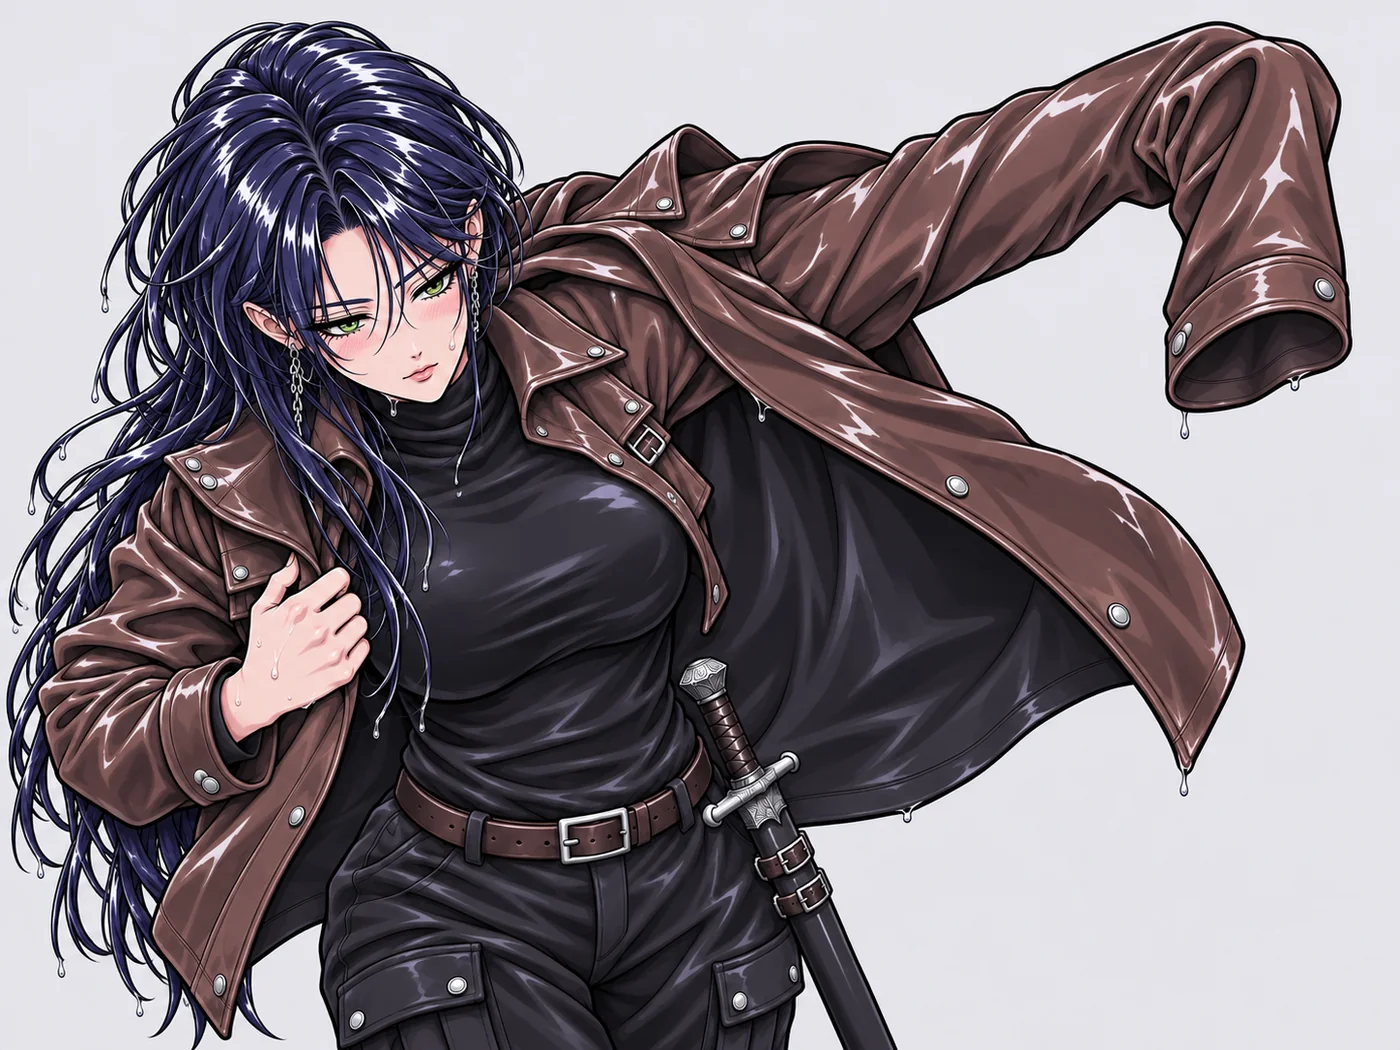
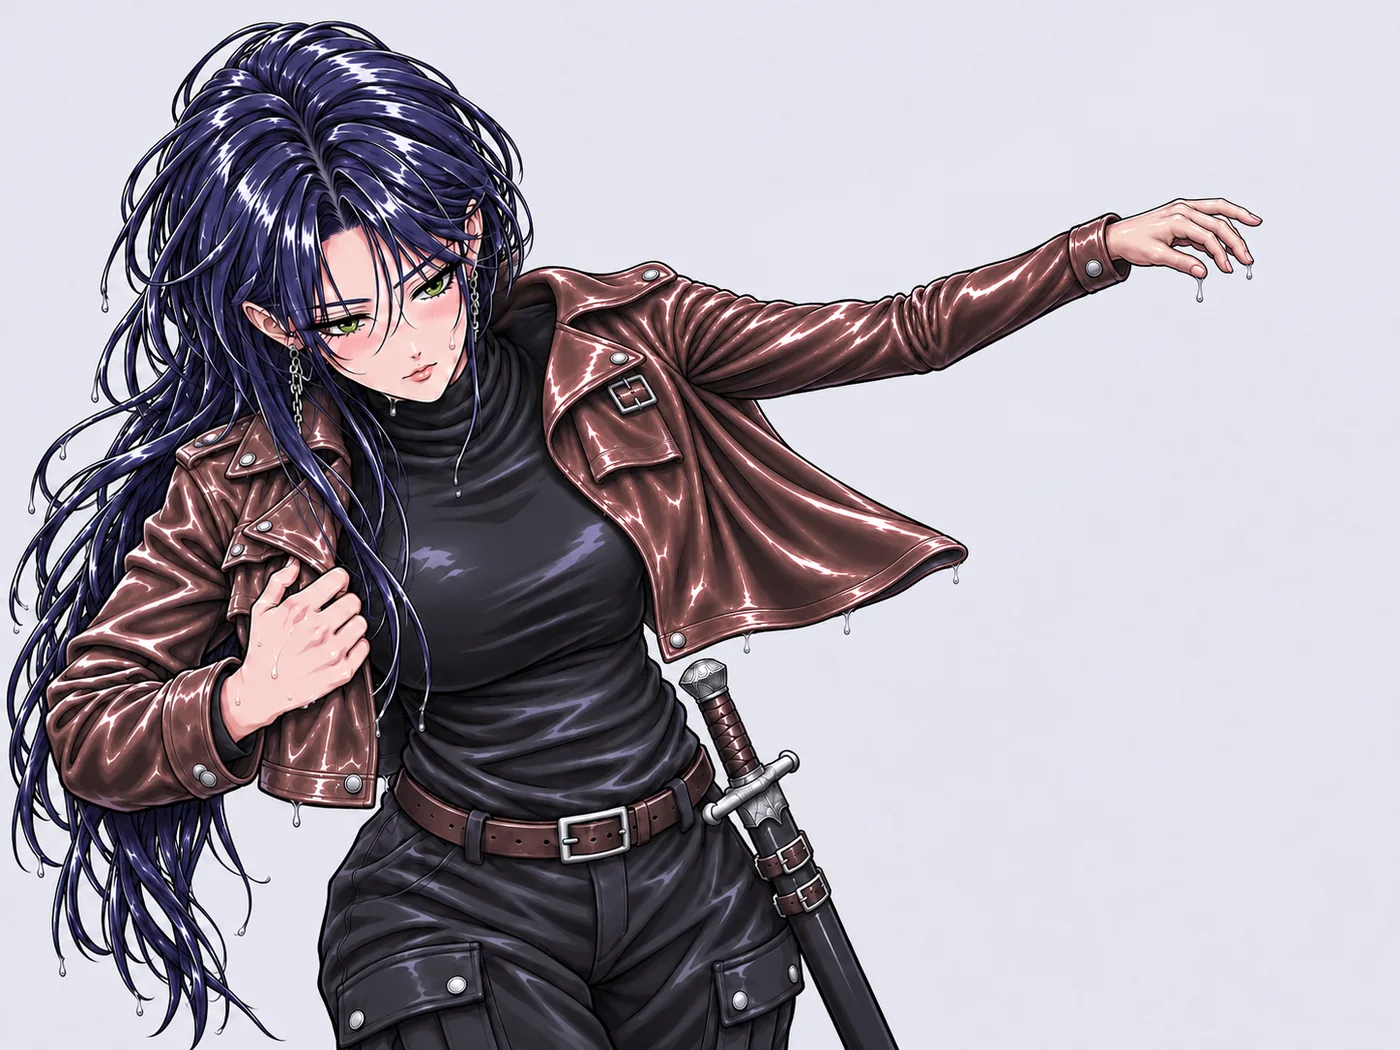
갤러리: 가희 현대판 일러스트 4장 추가(눈 내리는 도시·벚꽃비 도시·눈밤의 칼·빗속 일섬), 젖은 재킷 고친 판으로 교체

diff --git a/index.html b/index.html
@@ -478,7 +478,7 @@ dialog.notes{background:linear-gradient(180deg,#e6d8bd,#d9c8a8);border:1px solid
 .shrow .ic{display:grid;place-items:center;width:36px;height:36px;border-radius:6px;background:#efe3cb;border:1px solid #b89c6c;font-size:20px;font-family:'Apple Color Emoji','Segoe UI Emoji','Noto Color Emoji',sans-serif}
 .shm b{display:block;font-size:15px;color:#2e2218}.shd{font-size:12px;color:#6b5640}
 .pips{display:flex;gap:3px;margin-top:4px}.pips i{width:12px;height:5px;border-radius:2px;background:#d8c7a6}.pips i.on{background:#c9701e}
-.shbuy{min-width:84px}.achoff{opacity:.62}.achoff .ic{filter:grayscale(1)}.achc{font-weight:700;white-space:nowrap;font-size:.92em}.achget{flex:none;padding:7px 14px;border:0;border-radius:10px;background:linear-gradient(#ffcf4a,#f0a41c);color:#4a2a00;font:inherit;font-weight:800;cursor:pointer;box-shadow:0 2px 0 #b9740c;white-space:nowrap}.achget:active{transform:translateY(1px);box-shadow:none}.shrow.achrdy{background:rgba(255,214,90,.28);border-color:#e6a627;box-shadow:0 0 0 2px rgba(240,164,28,.35) inset}.achall{display:block;width:100%;margin:8px 0 2px;padding:10px;font-size:1.05em}.achdot{display:inline-block;min-width:18px;padding:0 5px;margin-left:4px;border-radius:9px;background:#e8402a;color:#fff;font-size:.8em;line-height:18px;text-align:center}.galgrid{display:grid;grid-template-columns:repeat(auto-fill,minmax(112px,1fr));gap:8px}.galit{display:flex;flex-direction:column;align-items:center;gap:3px;padding:6px;border:1px solid #c4ad84;border-radius:8px;background:rgba(250,244,232,.55);font:inherit;cursor:pointer;color:#3b2a16}.galit b{font-size:.82em;line-height:1.2;text-align:center}.galtag{font-style:normal;font-size:.7em;opacity:.7;line-height:1.1}.galit em{font-style:normal;font-size:.78em;font-weight:700;color:#9a5a12}.galth{display:block;width:104px;height:130px;border-radius:5px;background:#efe6d6 url('assets/gallery/thumbs2.webp?v=19') no-repeat;background-size:600% 1200%}/* 썸네일은 한 장짜리 모음(6×12, 72칸) — 1.14.5.5 늘림, 넣기는 tools/gallery_thumb.py */.galalpha{background:linear-gradient(160deg,#fdf6ea,#e7d9f3)}.galit.lock .galth{filter:blur(6px) brightness(.55) saturate(.6)}.galit.lock{opacity:.9}.galview{position:fixed;inset:0;z-index:99999;background:rgba(8,8,14,.93);display:flex;align-items:center;justify-content:center}.galview img{max-width:96vw;max-height:84vh;object-fit:contain;border-radius:6px;box-shadow:0 10px 40px rgba(0,0,0,.6)}.galstack{max-width:96vw;max-height:min(84vh,calc(100vh - 120px));overflow-y:auto}.galview .galstack img{display:block;max-width:100%;max-height:none;margin:0 auto}.galstack img+img{margin-top:8px}.galview img.galalpha{background:linear-gradient(160deg,#fdf6ea,#e7d9f3)}.galcap{position:absolute;left:0;right:0;bottom:14px;text-align:center;color:#fff;text-shadow:0 1px 4px #000}.galcap b{display:block;font-size:1.05em}.galcap span{font-size:.82em;opacity:.85}.galx,.galp,.galn{position:absolute;border:0;background:rgba(255,255,255,.14);color:#fff;font-size:28px;width:48px;height:48px;border-radius:50%;cursor:pointer}.galx{top:14px;right:14px;font-size:22px}.galp{left:12px;top:50%;transform:translateY(-50%)}.galn{right:12px;top:50%;transform:translateY(-50%)}.achtabs{display:flex;flex-wrap:wrap;gap:6px;margin:4px 0 10px}.achtab{flex:1 1 auto;padding:7px 10px;border:1px solid #c4ad84;border-radius:999px;background:rgba(250,244,232,.55);font:inherit;font-weight:700;cursor:pointer;color:#5a4224}.achtab small{opacity:.7;font-weight:600}.achtab.on{background:#d9822b;border-color:#b0611a;color:#fff}.shbuy:disabled{opacity:.55}
+.shbuy{min-width:84px}.achoff{opacity:.62}.achoff .ic{filter:grayscale(1)}.achc{font-weight:700;white-space:nowrap;font-size:.92em}.achget{flex:none;padding:7px 14px;border:0;border-radius:10px;background:linear-gradient(#ffcf4a,#f0a41c);color:#4a2a00;font:inherit;font-weight:800;cursor:pointer;box-shadow:0 2px 0 #b9740c;white-space:nowrap}.achget:active{transform:translateY(1px);box-shadow:none}.shrow.achrdy{background:rgba(255,214,90,.28);border-color:#e6a627;box-shadow:0 0 0 2px rgba(240,164,28,.35) inset}.achall{display:block;width:100%;margin:8px 0 2px;padding:10px;font-size:1.05em}.achdot{display:inline-block;min-width:18px;padding:0 5px;margin-left:4px;border-radius:9px;background:#e8402a;color:#fff;font-size:.8em;line-height:18px;text-align:center}.galgrid{display:grid;grid-template-columns:repeat(auto-fill,minmax(112px,1fr));gap:8px}.galit{display:flex;flex-direction:column;align-items:center;gap:3px;padding:6px;border:1px solid #c4ad84;border-radius:8px;background:rgba(250,244,232,.55);font:inherit;cursor:pointer;color:#3b2a16}.galit b{font-size:.82em;line-height:1.2;text-align:center}.galtag{font-style:normal;font-size:.7em;opacity:.7;line-height:1.1}.galit em{font-style:normal;font-size:.78em;font-weight:700;color:#9a5a12}.galth{display:block;width:104px;height:130px;border-radius:5px;background:#efe6d6 url('assets/gallery/thumbs2.webp?v=20') no-repeat;background-size:600% 1200%}/* 썸네일은 한 장짜리 모음(6×12, 72칸) — 1.14.5.5 늘림, 넣기는 tools/gallery_thumb.py */.galalpha{background:linear-gradient(160deg,#fdf6ea,#e7d9f3)}.galit.lock .galth{filter:blur(6px) brightness(.55) saturate(.6)}.galit.lock{opacity:.9}.galview{position:fixed;inset:0;z-index:99999;background:rgba(8,8,14,.93);display:flex;align-items:center;justify-content:center}.galview img{max-width:96vw;max-height:84vh;object-fit:contain;border-radius:6px;box-shadow:0 10px 40px rgba(0,0,0,.6)}.galstack{max-width:96vw;max-height:min(84vh,calc(100vh - 120px));overflow-y:auto}.galview .galstack img{display:block;max-width:100%;max-height:none;margin:0 auto}.galstack img+img{margin-top:8px}.galview img.galalpha{background:linear-gradient(160deg,#fdf6ea,#e7d9f3)}.galcap{position:absolute;left:0;right:0;bottom:14px;text-align:center;color:#fff;text-shadow:0 1px 4px #000}.galcap b{display:block;font-size:1.05em}.galcap span{font-size:.82em;opacity:.85}.galx,.galp,.galn{position:absolute;border:0;background:rgba(255,255,255,.14);color:#fff;font-size:28px;width:48px;height:48px;border-radius:50%;cursor:pointer}.galx{top:14px;right:14px;font-size:22px}.galp{left:12px;top:50%;transform:translateY(-50%)}.galn{right:12px;top:50%;transform:translateY(-50%)}.achtabs{display:flex;flex-wrap:wrap;gap:6px;margin:4px 0 10px}.achtab{flex:1 1 auto;padding:7px 10px;border:1px solid #c4ad84;border-radius:999px;background:rgba(250,244,232,.55);font:inherit;font-weight:700;cursor:pointer;color:#5a4224}.achtab small{opacity:.7;font-weight:600}.achtab.on{background:#d9822b;border-color:#b0611a;color:#fff}.shbuy:disabled{opacity:.55}
 .shmsg{min-height:18px;color:#2f8a62;font-weight:700;margin:6px 0 0}
 
 .pwabtn{flex:none;padding:6px 12px;border:1px solid rgba(255,215,120,.6);border-radius:999px;background:linear-gradient(#5a2a7a,#3a1850);color:#ffe7a8;font:inherit;font-weight:800;font-size:.86em;cursor:pointer;white-space:nowrap;box-shadow:0 2px 0 rgba(0,0,0,.35)}.pwabtn:hover{filter:brightness(1.15)}
@@ -5244,7 +5244,7 @@ function showAch(){let d=$('achDlg');if(!d){d=document.createElement('dialog');d
   d.querySelector('#achOk').onclick=()=>d.close();const done=c=>{if(c)toast(`🪙 업적 보상 +${c.toLocaleString()} 코인`,1600);showAch()};d.querySelectorAll('.achget').forEach(b=>b.onclick=async()=>{b.disabled=true;done(await achClaim([b.dataset.id]))});const all=d.querySelector('#achAll');if(all)all.onclick=async()=>{all.disabled=true;done(await achClaim(RD.map(a=>a.id)))};d.querySelectorAll('.achtab').forEach(b=>b.onclick=()=>{ACHT=b.dataset.g;showAch()});if(!d.open)d.showModal?d.showModal():d.setAttribute('open','')}
 
 /* 1.13.11.0 일러스트 갤러리: 캐릭터 일러스트 · 필살기 컷인 · LD 전신을 코인으로 해금해서 크게 보기. 해금 기록은 SH.data.gal (계정, 로그인 필요) */
-/* 1.14.5.x 필살기 여러 컷은 갤러리 한 항목(fs)으로 합침 */const GAL=[{id:'il_aoko',n:'소나카',g:'일러스트',c:60,a:0,t:0,f:'assets/gallery/il_aoko.webp?v=2'},{id:'il_marjanam',n:'마르자나 · 현대판',g:'일러스트',c:60,a:0,t:1,f:'assets/gallery/il_marjanam.webp?v=3'},{id:'il_kate',n:'케이트호크',g:'일러스트',c:60,a:0,t:2},{id:'il_damiroK',n:'다미로 · 경화수월',g:'일러스트',c:60,a:0,t:3},{id:'il_damiroB',n:'다미로 · 비키니',g:'일러스트',c:60,a:0,t:4},{id:'il_violetB',n:'설순이 · 칵테일',g:'일러스트',c:60,a:0,t:5},{id:'il_violetB2',n:'설순이 · 바텐더 의자',g:'일러스트',c:60,a:0,t:6},{id:'il_violetB3',n:'설순이 · 바람 부는 해변',g:'일러스트',c:60,a:0,t:22},{id:'il_violetB4',n:'설순이 · 노을 한 모금',g:'일러스트',c:60,a:0,t:27},{id:'il_angel',n:'이드 · 천사악마 전신',g:'일러스트',c:60,a:0,t:35},{id:'il_nid',n:'설표 · 고양이 튜브',g:'일러스트',c:60,a:0,t:7},{id:'il_nid2',n:'설표 · 튜브 물장난',g:'일러스트',c:60,a:0,t:8},{id:'il_nid3',n:'설표 · 물보라',g:'일러스트',c:60,a:0,t:9},{id:'il_nid4',n:'설표 · 물총',g:'일러스트',c:60,a:0,t:10},{id:'ct_nid',n:'설표 · 눈송이 발차기',g:'필살기 컷인',c:30,a:0,t:11,f:'assets/sprites/cut_nid2.webp'},{id:'ct_princess',n:'소나카 · 꽃의 정원',g:'필살기 컷인',c:30,a:0,t:12,f:'assets/sprites/cut_princess.webp'},{id:'ct_marjanam',n:'마르자나 · 천지파열무',g:'필살기 컷인',c:30,a:0,t:13,f:'assets/sprites/cut_marjanam.webp?v=4'},{id:'ct_violetB',n:'설순이 · 칵테일 2컷',g:'필살기 컷인',c:40,a:0,t:14,fs:['assets/sprites/cut_violetB1.webp','assets/sprites/cut_violetB2.webp']},{id:'ct_elf',n:'레이나 · 질풍 연참',g:'필살기 컷인',c:30,a:1,t:29,f:'assets/sprites/cut_elf.webp'},{id:'ct_knight',n:'세레나 · 루나 슬래시',g:'필살기 컷인',c:30,a:1,t:28,f:'assets/sprites/cut_knight.webp'},{id:'ct_lion',n:'레오나 · 사자 포효',g:'필살기 컷인',c:30,a:1,t:31,f:'assets/sprites/cut_lion.webp'},{id:'ct_damiro',n:'다미로 · 하트 스핀',g:'필살기 컷인',c:30,a:1,t:32,f:'assets/sprites/cut_damiro.webp'},{id:'ct_nidB',n:'설표 · 비키니 3컷',g:'필살기 컷인',c:40,a:1,t:37},{id:'ct_elf2',n:'레이나 · 질풍 연참 (움직이는 컷인)',g:'필살기 컷인',c:40,a:0,t:36},{id:'ct_kate',n:'케이트호크 · 크림슨 크로스',g:'필살기 컷인',c:30,a:1,t:33,f:'assets/sprites/cut_kate.webp?v=4'},{id:'ct_marjanao',n:'마르자나 · 혈랑마혼',g:'필살기 컷인',c:30,a:1,t:34,f:'assets/sprites/cut_marjanao.webp?v=3'},{id:'ct_yuenem',n:'유에넴 · 매화신권 2컷',g:'필살기 컷인',c:40,a:0,t:40,fs:['assets/sprites/cut_yuenem1.webp?v=2','assets/sprites/cut_yuenem2.webp?v=2']},{id:'ct_ribbon',n:'딘코 · 비트 버스트 2컷',g:'필살기 컷인',c:40,a:0,t:41,fs:['assets/sprites/cut_ribbon1.webp?v=2','assets/sprites/cut_ribbon2.webp?v=2']},{id:'ct_gaheeM',n:'가희 · 현대판 — 우중일섬 2컷',g:'필살기 컷인',c:40,a:0,t:44,fs:['assets/gallery/ct_gaheeM.webp','assets/gallery/ct_gaheeM_angry.webp']},{id:'ct_gahee',n:'가희 · 패황멸천 2컷',g:'필살기 컷인',c:40,a:0,t:42,fs:['assets/sprites/cut_gahee1.webp','assets/sprites/cut_gahee2.webp']},{id:'ct_sauris',n:'사우리스 · 공룡 돌진 2컷',g:'필살기 컷인',c:40,a:0,t:43,fs:['assets/sprites/cut_sauris1.webp','assets/sprites/cut_sauris2.webp']},{id:'ld_gahee',n:'가희 · 사파',g:'LD 전신',c:40,a:0,t:16},{id:'ld_knight',n:'세레나',g:'LD 전신',c:40,a:0,t:18},{id:'ld_elf',n:'레이나',g:'LD 전신',c:40,a:0,t:19},{id:'ld_yuenem',n:'유에넴',g:'LD 전신',c:40,a:0,t:20},{id:'ld_idtrip',n:'이드 · 여행원피스',g:'LD 전신',c:40,a:1,t:21},{id:'ld_nobu',n:'노브냥이 · 서큐버스',g:'LD 전신',c:40,a:1,t:23},{id:'ld_nobu2',n:'노브냥이 · 서큐버스 2',g:'LD 전신',c:40,a:0,t:24},{id:'ld_nobuR',n:'노브냥이 · 루비 드레스',g:'LD 전신',c:40,a:1,t:25},{id:'ld_santa',n:'마르자나 · 산타',g:'LD 전신',c:40,a:0,t:26},{id:'il_gaheeM2',n:'가희 · 현대판 빗속 대기',g:'일러스트',c:60,a:0,t:46,f:'assets/gallery/il_gaheeM2.webp'},{id:'il_gaheeM3',n:'가희 · 현대판 젖은 재킷',g:'일러스트',c:60,a:0,t:47,f:'assets/gallery/il_gaheeM3.webp'},{id:'il_gaheeM4',n:'가희 · 현대판 재킷 휘날리기',g:'일러스트',c:60,a:0,t:48,f:'assets/gallery/il_gaheeM4.webp'},{id:'il_gaheeM5',n:'가희 · 현대판 발도',g:'일러스트',c:60,a:0,t:49,f:'assets/gallery/il_gaheeM5.webp'},{id:'il_gahee2',n:'가희 · 백의 도객',g:'일러스트',c:60,a:0,t:17,ps:'assets/gallery/pack_1116.webp',pk:[0,0,1024,1536]},{id:'il_gahee3',n:'가희 · 사파 전투',g:'일러스트',c:60,a:0,t:39,ps:'assets/gallery/pack_1116.webp',pk:[0,2477,1671,941]},{id:'il_gahee4',n:'가희 · 유에넴과 대결',g:'일러스트',c:60,a:0,t:38,ps:'assets/gallery/pack_1116.webp',pk:[0,1536,1672,941]},{id:'il_yuenem',n:'유에넴 · 부채무공',g:'일러스트',c:60,a:0,t:30,ps:'assets/gallery/pack_1116.webp',pk:[1024,0,1024,1536]}]/* 1.13.16.13 새 일러스트 4장은 아티팩트 파일 수 한도(511) 때문에 한 장(pack_1116)에 모아 두고 볼 때 잘라서 보여 줌(pk=[x,y,w,h]) */,PKC={},pkSrc=(it,cb)=>{if(PKC[it.id])return cb(PKC[it.id]);const im=new Image();im.onload=()=>{const[x,y,w,h]=it.pk,c=document.createElement('canvas');c.width=w;c.height=h;c.getContext('2d').drawImage(im,x,y,w,h,0,0,w,h);const done=u=>{PKC[it.id]=u;cb(u)};if(c.toBlob)c.toBlob(b=>done(b?URL.createObjectURL(b):c.toDataURL('image/jpeg',.92)),'image/webp',.92);else done(c.toDataURL('image/jpeg',.92))};im.src=it.ps},GALG=['일러스트','필살기 컷인','LD 전신'],GALI={'일러스트':'🎨','필살기 컷인':'🎬','LD 전신':'🧍'};
+/* 1.14.5.x 필살기 여러 컷은 갤러리 한 항목(fs)으로 합침 */const GAL=[{id:'il_aoko',n:'소나카',g:'일러스트',c:60,a:0,t:0,f:'assets/gallery/il_aoko.webp?v=2'},{id:'il_marjanam',n:'마르자나 · 현대판',g:'일러스트',c:60,a:0,t:1,f:'assets/gallery/il_marjanam.webp?v=3'},{id:'il_kate',n:'케이트호크',g:'일러스트',c:60,a:0,t:2},{id:'il_damiroK',n:'다미로 · 경화수월',g:'일러스트',c:60,a:0,t:3},{id:'il_damiroB',n:'다미로 · 비키니',g:'일러스트',c:60,a:0,t:4},{id:'il_violetB',n:'설순이 · 칵테일',g:'일러스트',c:60,a:0,t:5},{id:'il_violetB2',n:'설순이 · 바텐더 의자',g:'일러스트',c:60,a:0,t:6},{id:'il_violetB3',n:'설순이 · 바람 부는 해변',g:'일러스트',c:60,a:0,t:22},{id:'il_violetB4',n:'설순이 · 노을 한 모금',g:'일러스트',c:60,a:0,t:27},{id:'il_angel',n:'이드 · 천사악마 전신',g:'일러스트',c:60,a:0,t:35},{id:'il_nid',n:'설표 · 고양이 튜브',g:'일러스트',c:60,a:0,t:7},{id:'il_nid2',n:'설표 · 튜브 물장난',g:'일러스트',c:60,a:0,t:8},{id:'il_nid3',n:'설표 · 물보라',g:'일러스트',c:60,a:0,t:9},{id:'il_nid4',n:'설표 · 물총',g:'일러스트',c:60,a:0,t:10},{id:'ct_nid',n:'설표 · 눈송이 발차기',g:'필살기 컷인',c:30,a:0,t:11,f:'assets/sprites/cut_nid2.webp'},{id:'ct_princess',n:'소나카 · 꽃의 정원',g:'필살기 컷인',c:30,a:0,t:12,f:'assets/sprites/cut_princess.webp'},{id:'ct_marjanam',n:'마르자나 · 천지파열무',g:'필살기 컷인',c:30,a:0,t:13,f:'assets/sprites/cut_marjanam.webp?v=4'},{id:'ct_violetB',n:'설순이 · 칵테일 2컷',g:'필살기 컷인',c:40,a:0,t:14,fs:['assets/sprites/cut_violetB1.webp','assets/sprites/cut_violetB2.webp']},{id:'ct_elf',n:'레이나 · 질풍 연참',g:'필살기 컷인',c:30,a:1,t:29,f:'assets/sprites/cut_elf.webp'},{id:'ct_knight',n:'세레나 · 루나 슬래시',g:'필살기 컷인',c:30,a:1,t:28,f:'assets/sprites/cut_knight.webp'},{id:'ct_lion',n:'레오나 · 사자 포효',g:'필살기 컷인',c:30,a:1,t:31,f:'assets/sprites/cut_lion.webp'},{id:'ct_damiro',n:'다미로 · 하트 스핀',g:'필살기 컷인',c:30,a:1,t:32,f:'assets/sprites/cut_damiro.webp'},{id:'ct_nidB',n:'설표 · 비키니 3컷',g:'필살기 컷인',c:40,a:1,t:37},{id:'ct_elf2',n:'레이나 · 질풍 연참 (움직이는 컷인)',g:'필살기 컷인',c:40,a:0,t:36},{id:'ct_kate',n:'케이트호크 · 크림슨 크로스',g:'필살기 컷인',c:30,a:1,t:33,f:'assets/sprites/cut_kate.webp?v=4'},{id:'ct_marjanao',n:'마르자나 · 혈랑마혼',g:'필살기 컷인',c:30,a:1,t:34,f:'assets/sprites/cut_marjanao.webp?v=3'},{id:'ct_yuenem',n:'유에넴 · 매화신권 2컷',g:'필살기 컷인',c:40,a:0,t:40,fs:['assets/sprites/cut_yuenem1.webp?v=2','assets/sprites/cut_yuenem2.webp?v=2']},{id:'ct_ribbon',n:'딘코 · 비트 버스트 2컷',g:'필살기 컷인',c:40,a:0,t:41,fs:['assets/sprites/cut_ribbon1.webp?v=2','assets/sprites/cut_ribbon2.webp?v=2']},{id:'ct_gaheeM',n:'가희 · 현대판 — 우중일섬 2컷',g:'필살기 컷인',c:40,a:0,t:44,fs:['assets/gallery/ct_gaheeM.webp','assets/gallery/ct_gaheeM_angry.webp']},{id:'ct_gahee',n:'가희 · 패황멸천 2컷',g:'필살기 컷인',c:40,a:0,t:42,fs:['assets/sprites/cut_gahee1.webp','assets/sprites/cut_gahee2.webp']},{id:'ct_sauris',n:'사우리스 · 공룡 돌진 2컷',g:'필살기 컷인',c:40,a:0,t:43,fs:['assets/sprites/cut_sauris1.webp','assets/sprites/cut_sauris2.webp']},{id:'ld_gahee',n:'가희 · 사파',g:'LD 전신',c:40,a:0,t:16},{id:'ld_knight',n:'세레나',g:'LD 전신',c:40,a:0,t:18},{id:'ld_elf',n:'레이나',g:'LD 전신',c:40,a:0,t:19},{id:'ld_yuenem',n:'유에넴',g:'LD 전신',c:40,a:0,t:20},{id:'ld_idtrip',n:'이드 · 여행원피스',g:'LD 전신',c:40,a:1,t:21},{id:'ld_nobu',n:'노브냥이 · 서큐버스',g:'LD 전신',c:40,a:1,t:23},{id:'ld_nobu2',n:'노브냥이 · 서큐버스 2',g:'LD 전신',c:40,a:0,t:24},{id:'ld_nobuR',n:'노브냥이 · 루비 드레스',g:'LD 전신',c:40,a:1,t:25},{id:'ld_santa',n:'마르자나 · 산타',g:'LD 전신',c:40,a:0,t:26},{id:'il_gaheeM6',n:'가희 · 현대판 눈 내리는 도시',g:'일러스트',c:60,a:0,t:50,f:'assets/gallery/il_gaheeM6.webp'},{id:'il_gaheeM7',n:'가희 · 현대판 벚꽃비 도시',g:'일러스트',c:60,a:0,t:51,f:'assets/gallery/il_gaheeM7.webp'},{id:'il_gaheeM8',n:'가희 · 현대판 눈밤의 칼',g:'일러스트',c:60,a:0,t:52,f:'assets/gallery/il_gaheeM8.webp'},{id:'il_gaheeM9',n:'가희 · 현대판 빗속 일섬',g:'일러스트',c:60,a:0,t:53,f:'assets/gallery/il_gaheeM9.webp'},{id:'il_gaheeM2',n:'가희 · 현대판 빗속 대기',g:'일러스트',c:60,a:0,t:46,f:'assets/gallery/il_gaheeM2.webp'},{id:'il_gaheeM3',n:'가희 · 현대판 젖은 재킷',g:'일러스트',c:60,a:0,t:47,f:'assets/gallery/il_gaheeM3.webp?v=2'},{id:'il_gaheeM4',n:'가희 · 현대판 재킷 휘날리기',g:'일러스트',c:60,a:0,t:48,f:'assets/gallery/il_gaheeM4.webp'},{id:'il_gaheeM5',n:'가희 · 현대판 발도',g:'일러스트',c:60,a:0,t:49,f:'assets/gallery/il_gaheeM5.webp'},{id:'il_gahee2',n:'가희 · 백의 도객',g:'일러스트',c:60,a:0,t:17,ps:'assets/gallery/pack_1116.webp',pk:[0,0,1024,1536]},{id:'il_gahee3',n:'가희 · 사파 전투',g:'일러스트',c:60,a:0,t:39,ps:'assets/gallery/pack_1116.webp',pk:[0,2477,1671,941]},{id:'il_gahee4',n:'가희 · 유에넴과 대결',g:'일러스트',c:60,a:0,t:38,ps:'assets/gallery/pack_1116.webp',pk:[0,1536,1672,941]},{id:'il_yuenem',n:'유에넴 · 부채무공',g:'일러스트',c:60,a:0,t:30,ps:'assets/gallery/pack_1116.webp',pk:[1024,0,1024,1536]}]/* 1.13.16.13 새 일러스트 4장은 아티팩트 파일 수 한도(511) 때문에 한 장(pack_1116)에 모아 두고 볼 때 잘라서 보여 줌(pk=[x,y,w,h]) */,PKC={},pkSrc=(it,cb)=>{if(PKC[it.id])return cb(PKC[it.id]);const im=new Image();im.onload=()=>{const[x,y,w,h]=it.pk,c=document.createElement('canvas');c.width=w;c.height=h;c.getContext('2d').drawImage(im,x,y,w,h,0,0,w,h);const done=u=>{PKC[it.id]=u;cb(u)};if(c.toBlob)c.toBlob(b=>done(b?URL.createObjectURL(b):c.toDataURL('image/jpeg',.92)),'image/webp',.92);else done(c.toDataURL('image/jpeg',.92))};im.src=it.ps},GALG=['일러스트','필살기 컷인','LD 전신'],GALI={'일러스트':'🎨','필살기 컷인':'🎬','LD 전신':'🧍'};
 const GALALIAS={ct_violetB:['ct_violetB1','ct_violetB2']}; const galOwn=id=>{const gal=SH.data&&SH.data.gal;return AU.on&&!!(gal&&(gal[id]||GALALIAS[id]?.some(old=>gal[old])))};
 async function galBuy(it){if(!AU.on)return 'login';if(!AU.ok)return 'wait';SH.load();if(galOwn(it.id))return 'have';if(AU.coins()<it.c)return 'poor';await AU.addCoins(-it.c);SH.data.gal=SH.data.gal||{};SH.data.gal[it.id]=1;SH.save();return 'ok'}
 let galViewKey=null;
@@ -5273,7 +5273,7 @@ function showGal(){let d=$('galDlg');if(!d){d=document.createElement('dialog');d
 (function(){const row=document.querySelector('.topbtns');if(!row)return;const gb=document.createElement('button');gb.type='button';gb.id='galBtn';gb.className='notesbtn';gb.textContent='🖼 일러스트';gb.onclick=()=>showGal();row.append(gb)})();
 (function(){const row=document.querySelector('.topbtns');if(!row)return;const ab=document.createElement('button');ab.type='button';ab.id='achBtn';ab.className='notesbtn';ab.textContent='🏆 업적';ab.onclick=()=>showAch();row.append(ab);achBadge();setInterval(()=>{const o=$('titleOv');if(!document.hidden&&o&&!o.hidden)achBadge()},4000)/* 게임 중엔 안 돎 */})();
 /* 1.13.16.5 새 버전 알림: GitHub 페이지에서만, 작은 version.json을 3분마다(그리고 탭으로 돌아올 때) 확인해 이 화면보다 새 빌드가 있으면 처음 화면에 「새로고침」 띠를 띄움. 게임 중엔 안 띄우고 처음 화면으로 돌아오면 보여 줌 */
-const BUILD='20261122023654';
+const BUILD='20261122034256';
 /* 1.13.16.15 앱(PWA) · 1.13.16.16 버튼 항상 보이게: GitHub 주소면 서비스워커 등록 + 「📲 앱으로 설치」(크롬은 설치 창, 없으면 메뉴 안내, 아이폰은 Safari 공유 → 홈 화면에 추가 안내).
    카카오톡·네이버 등 앱 안 브라우저면 크롬(외부 브라우저)으로 열어 줌. Claude 페이지 등 다른 주소면 GitHub 주소를 새 창으로 열어 줌. 이미 앱으로 열었으면 버튼 없음 */
 (function(){const GH='https://vnfms3346-alt.github.io/beatblade/';const onGH=/github\.io$/.test(location.hostname);
